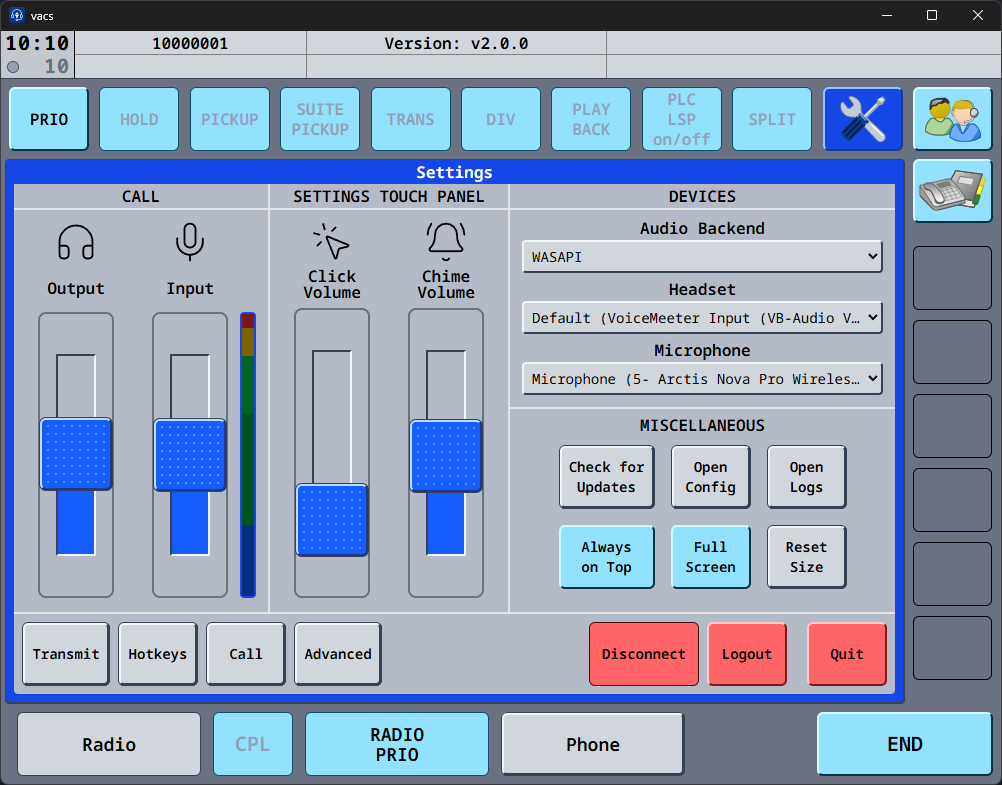
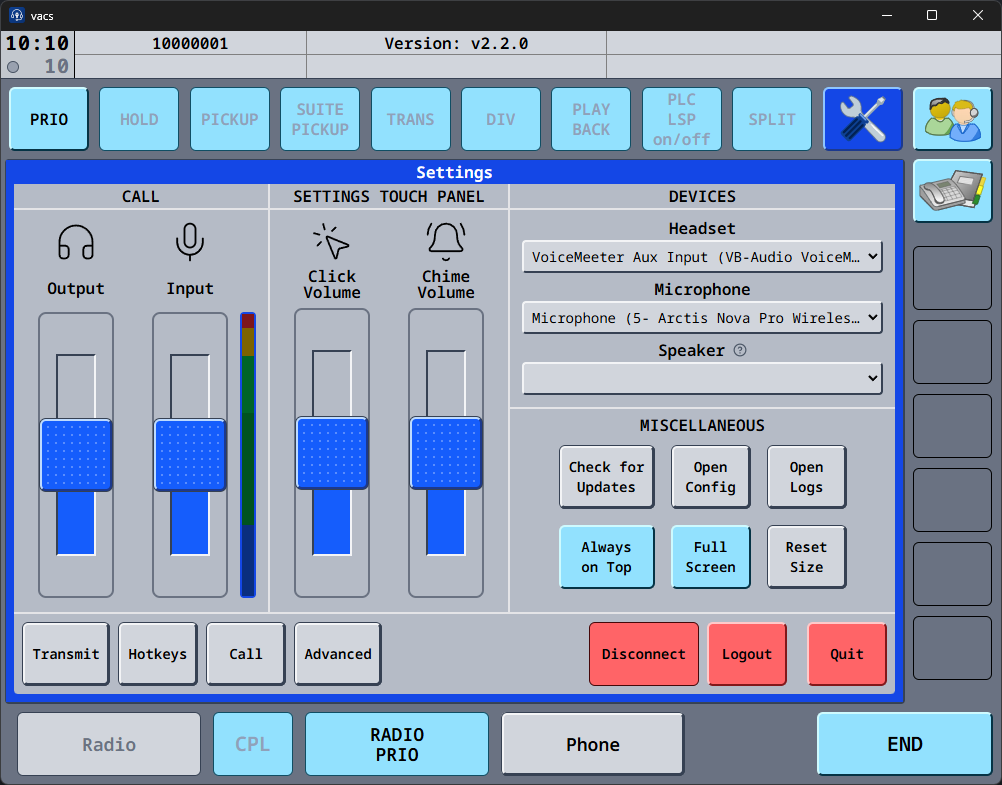
update screenshots

diff --git a/docs/settings/advanced.md b/docs/settings/advanced.md
@@ -13,6 +13,20 @@ The **Advanced Settings** Menu allows you to change various settings that are no
 The **Advanced Settings** Menu can be accessed from the settings page, by clicking the **Advanced** button.
 
 <img
+src="/img/settings/AdvancedConfig.png"
+alt="vacs Settings Page"
+style={{
+    width: "80%",
+    display: "block",
+    margin: "1.5rem auto",
+    borderRadius: "8px",
+    boxShadow: "0 4px 16px rgba(0,0,0,0.08)"
+  }}
+/>
+
+---
+
+<img
 src="/img/settings/AdvancedConfigPage.png"
 alt="vacs Settings Page"
 style={{
@@ -41,3 +55,7 @@ The IP and port vacs should listen on for incoming remote control connections. B
 For sake of convenience, you can also just specify the IP (without port) and vacs will use the default port 9600.
 
 See [Changing the listen address and port](/using-vacs/remote-control#changing-the-listen-address-or-port) for more details and examples.
+
+## Audio backend
+
+The **Audio Backend** section allows you to configure the audio backend (by default WASAPI for Windows, ALSA for Linux and CoreAudio for macOS) used by vacs. This setting was moved from the main settings page into the advanced settings menu.

diff --git a/docs/settings/hotkeys.md b/docs/settings/hotkeys.md
@@ -13,7 +13,7 @@ The **Hotkeys Config** Menu allows you to assign keyboard shortcuts for common a
 The **Hotkeys Config** Menu can be accessed from the settings page, by clicking the **Hotkeys** button.
 
 <img
-src="/img/settings/Hotkeys.png"
+src="/img/settings/HotkeysConfig.png"
 alt="vacs Settings Page"
 style={{
     width: "80%",
@@ -39,7 +39,7 @@ Click the **✕** button on the right side of the row to remove the assigned key
 :::
 
 <img
-src="/img/settings/KeyBindings.png"
+src="/img/settings/HotkeysConfigPage.png"
 alt="vacs Settings Page"
 style={{
     width: "45%",

diff --git a/docs/settings/overview.md b/docs/settings/overview.md
@@ -43,7 +43,6 @@ The following subsections provide detailed explanations of each configuration ar
 
 Configure:
 
-- Audio backend
 - Headset / output device
 - Microphone / input device
 - Speaker / notification device (optional, for ringtone and UI sounds)
@@ -98,6 +97,7 @@ Defines various call related behaviour and preferences, such as:
 Allows you to configure more advanced application behavior:
 
 - Remote control (see [Remote Control](/using-vacs/remote-control))
+- Audio backend
 
 → See [Advanced Settings](/settings/advanced)
 
